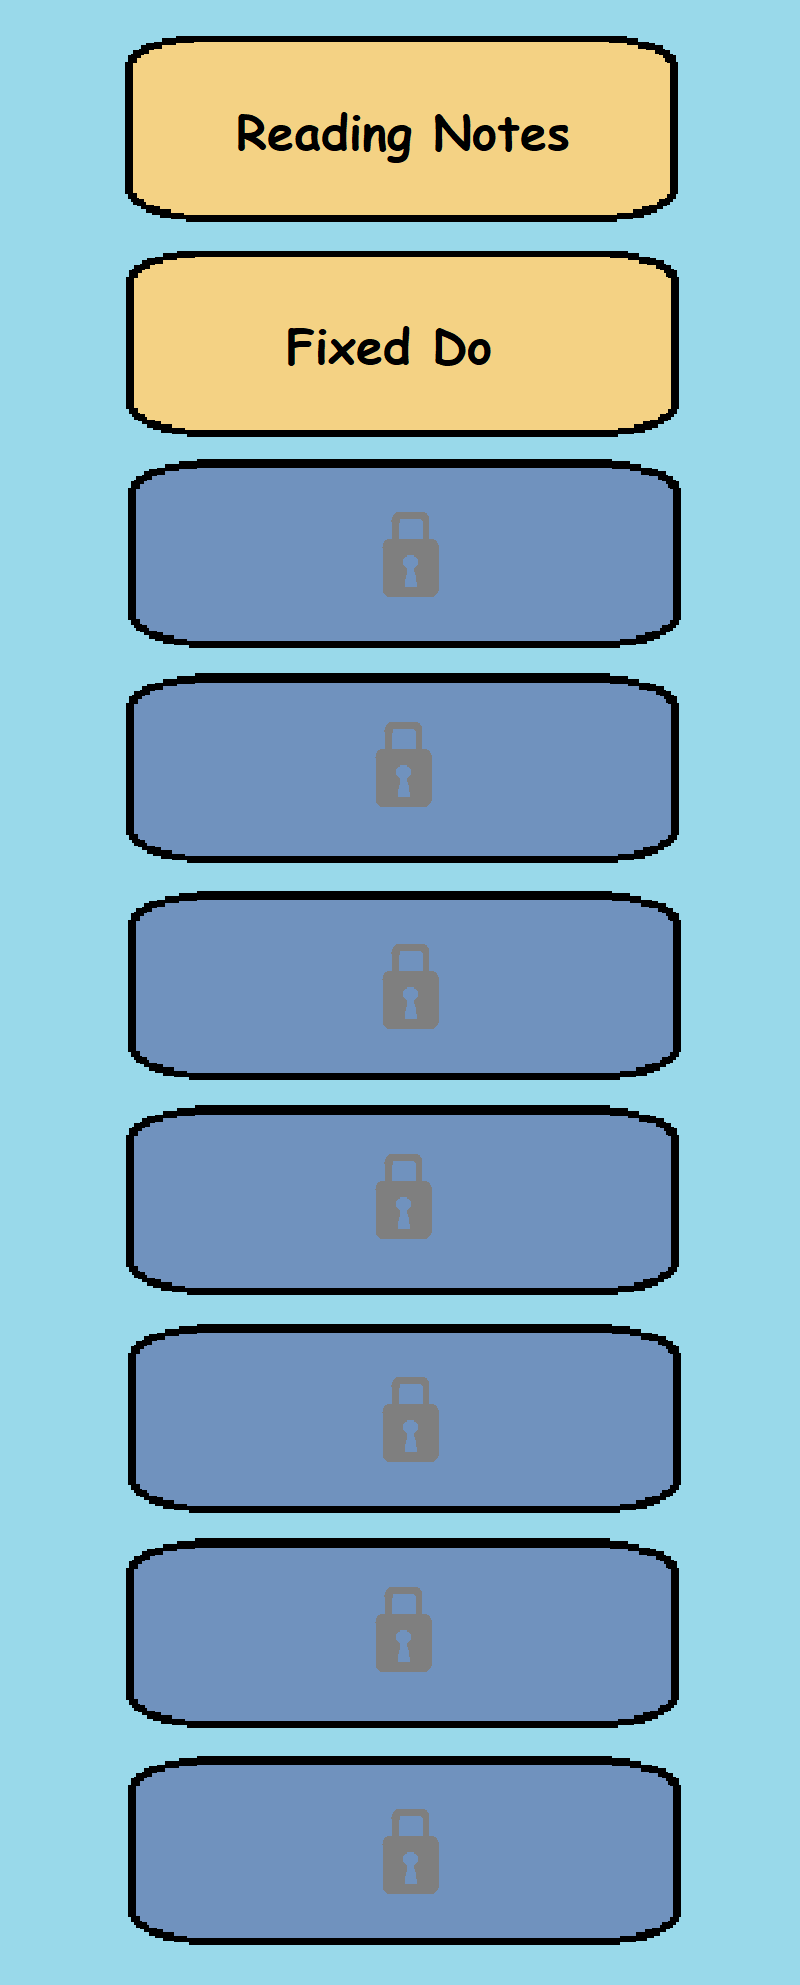
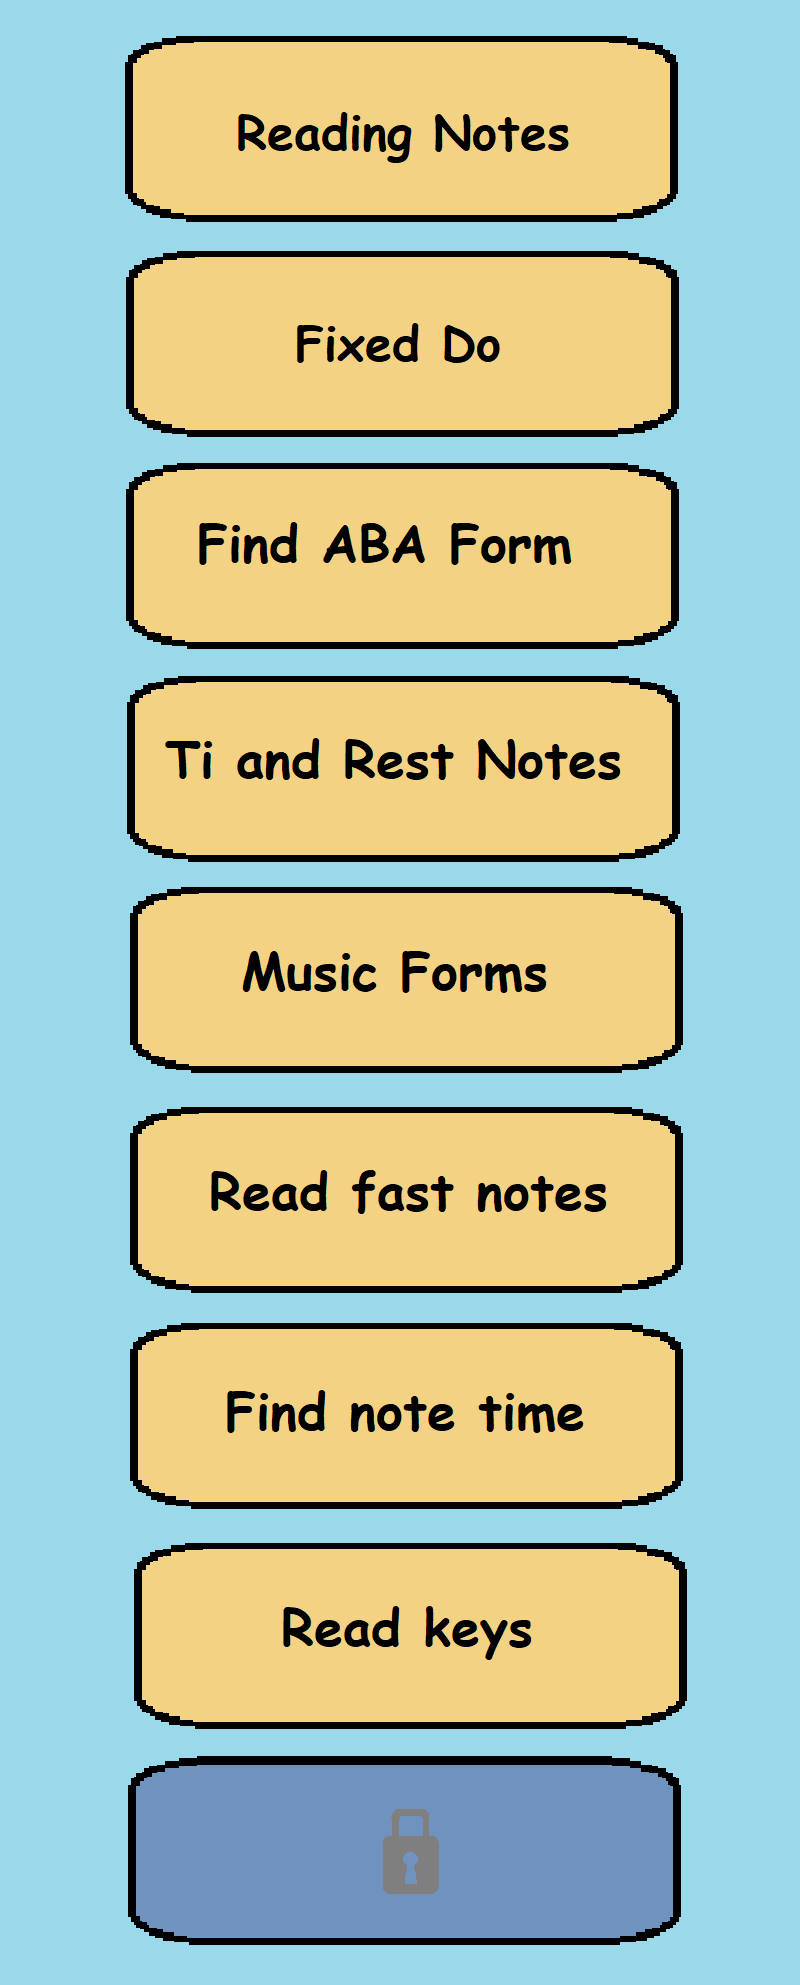
Changed from the demo day

diff --git a/main.js b/main.js
@@ -17,6 +17,20 @@ $(document).ready(function(){
 	$(loginScreen).show();
 	previousScreen = "loginScreen"
 
+	var actUser = "user";
+	var actPass = "abc";
+	var allowEnter = false;
+	$("a#registerBtn").click(function(){
+		var user = $("#username").val();
+		var pass = $("#password").val();
+
+		if(pass == actPass){
+			if(user == actUser){
+				allowEnter = true;
+			}
+		}
+	});
+
 
 	//this may not work if the previous screens are back to back and get in a fun loop
 	// $("a.backBtn").click(function(){
@@ -31,14 +45,18 @@ $(document).ready(function(){
 
 	//general controller for nav buttons
 	$(".navBtn").click(function(){
-		previousScreen = $(this).closest(".fitScreen").attr('id');
-		console.log("setting previous:" + previousScreen)
-		$(this).closest(".fitScreen").hide();
-		
+		var idStr = $(this).closest(".fitScreen").attr('id')
+		if(allowEnter ||  idStr == "settingsScreen"){
+			previousScreen = idStr;
+			console.log("setting previous:" + previousScreen)
+			$(this).closest(".fitScreen").hide();
+		}
 	});
 
 	$("a#registerBtn").click(function(){
-		$(moduleSelectScreen).show();
+		if(allowEnter){
+			$(moduleSelectScreen).show();
+		}
 	});
 	$("a#readingNotesModuleBtn").click(function(){
 		$(readingNotesModule).show();
@@ -58,6 +76,7 @@ $(document).ready(function(){
 	
 	$("a#settingsBtn").click(function(){
 		fromSettings = $(this).closest(".fitScreen").attr('id');
+		$(this).closest(".fitScreen").hide();//added because login control
 		$(settingsScreen).show();
 	});
 	//dynamic controller for returning to correct screen 
@@ -94,6 +113,11 @@ $(document).ready(function(){
 
 	$("a#n1").click(function(){
 		//go to the first lesson., start saving the sequence vars
+		$(readingNotesLesson1).show();
+	});
+	$("a#n2").click(function(){
+		//go to the first lesson., start saving the sequence vars
+		$(this).closest(".fitScreen").hide();
 		$(readingNotesLesson1).show();
 	});
 

diff --git a/index.html b/index.html
@@ -1,5 +1,5 @@
 <html>
-
+	<!--Have to us some sort of state saving metric. maybe printing to a json file in local host-->
 	<head>
 		<script src="https://ajax.googleapis.com/ajax/libs/jquery/3.4.1/jquery.min.js"></script>
 		<!--<script type="text/javascript" src="main.js"></script>-->
@@ -13,8 +13,10 @@
 		<div id="loginScreen" class="fitScreen">
 			<img class="screenImage" src="pictures/loginScreen.png"></img>
 				<form id="loginForm">
-					<input type="text"/>
-					<input type="password"/>
+					
+					<input id="username" type="text"/>
+					<br/>
+					<input id="password" type="password"/>
 				</form>
 			<a id="registerBtn" class="btn navBtn"></a>
 			<!--Settings button seen on many screens-->
@@ -39,16 +41,28 @@
 						<a id="readingNotesModuleBtn" class="btn navBtn moduleBtn"></a>
 					</li>
 					<li>
-						<a class="btn navBtn moduleBtn"></a>
+						<a id="readingNotesModuleBtn" class="btn navBtn moduleBtn"></a>
 					</li>
 					<li>
-						<a class="btn navBtn moduleBtn"></a>
+						<a id="readingNotesModuleBtn" class="btn navBtn moduleBtn"></a>
 					</li>
 					<li>
-						<a class="btn navBtn moduleBtn"></a>
+						<a id="readingNotesModuleBtn" class="btn navBtn moduleBtn"></a>
 					</li>
 					<li>
-						<a class="btn navBtn moduleBtn"></a>
+						<a id="readingNotesModuleBtn" class="btn navBtn moduleBtn"></a>
+					</li>
+					<li>
+						<a id="readingNotesModuleBtn" class="btn navBtn moduleBtn"></a>
+					</li>
+					<li>
+						<a id="readingNotesModuleBtn" class="btn navBtn moduleBtn"></a>
+					</li>
+					<li>
+						<a id="readingNotesModuleBtn" class="btn navBtn moduleBtn"></a>
+					</li>
+					<li>
+						<a id="readingNotesModuleBtn" class="btn navBtn moduleBtn"></a>
 					</li>
 				</ul>
 			</div>

diff --git a/main.css b/main.css
@@ -21,7 +21,7 @@ ul{
 }
 
 .btn{
-	border: 2px solid red;
+	/*border: 2px solid red;*/
 	position:fixed;
 	cursor: pointer;
 }
@@ -48,6 +48,28 @@ ul{
 	top: 74%;
 	left: calc(50% - 13%);
 }
+
+#loginForm{
+	position: fixed;
+    right: 19%;
+    z-index: 2;
+    top: 57%;
+    width: 30%;
+    height: 15%;
+}
+
+#loginForm > input{
+	width: 100%;
+    height: 25%;
+	margin-bottom: 23%;
+	border:none;
+	font-size: 200%;
+}
+#loginForm > input:focus{
+	outline: none;
+	outline-offset: 0;
+}
+
 
 /*
 	Module Select Screen
@@ -81,7 +103,7 @@ ul{
 
 ul#moduleList{
 	position: absolute;
-	border: 1px solid green;
+	/*border: 1px solid green;*/
 	width: 70%;
 	left: 15%;
 	top:16%;
@@ -177,7 +199,7 @@ img#colorBlindOptImage{
 */
 
 ul#lev1{
-	border: 1px solid green;
+	/*border: 1px solid green;*/
     position: fixed;
     background-color: rgb(239, 228, 176);
     top: 69%;
@@ -188,7 +210,7 @@ ul#lev1{
 
 li.lessonsMultChoiceOpt{
 	height:25%;
-	border: 1px solid red;
+	/*border: 1px solid red;*/
 }
 li.lessonsMultChoiceOpt > img{
 	width: 100%;
